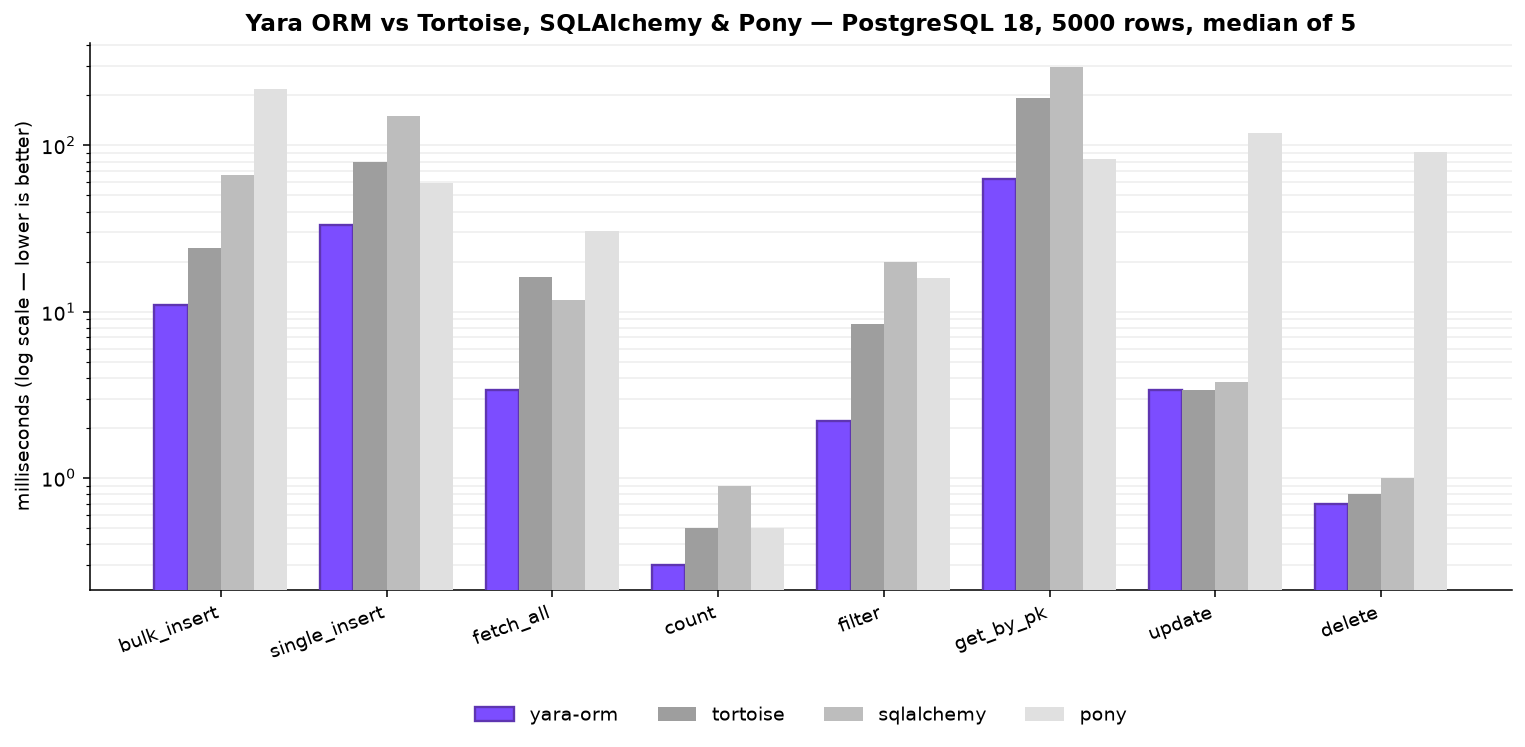
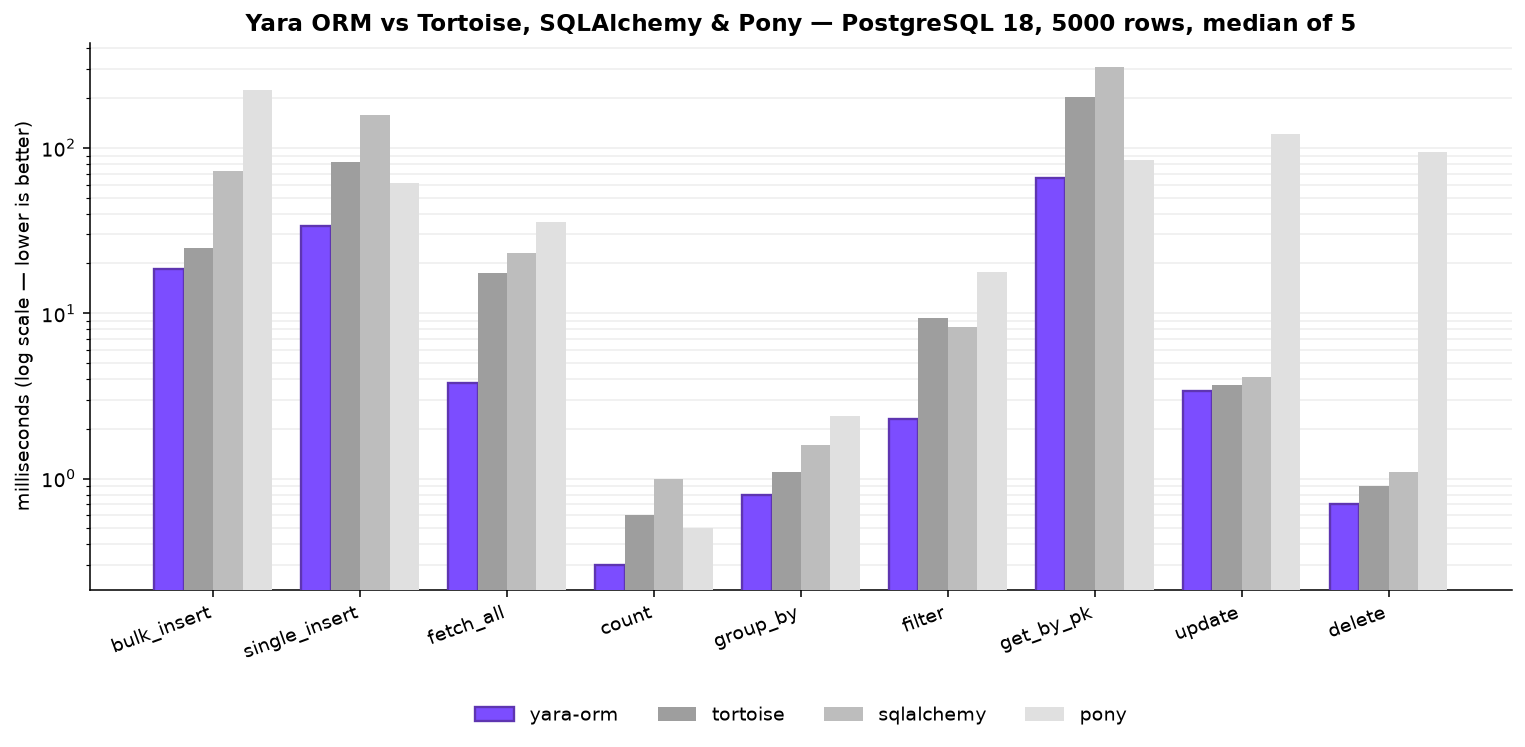
docs: refresh PostgreSQL benchmark results + chart, add group_by op
Re-ran bench.py (N=5000, median of 5) on the rustls release build; updated the
tables in README, benchmarks/README.md and docs/performance.md, added the new
GROUP BY + HAVING aggregate op, and regenerated docs/assets/benchmark-postgres.png.
yara-orm remains fastest on every operation.

diff --git a/benchmarks/plot_benchmarks.py b/benchmarks/plot_benchmarks.py
@@ -29,16 +29,17 @@ OPERATIONS = [
     "single_insert",
     "fetch_all",
     "count",
+    "group_by",
     "filter",
     "get_by_pk",
     "update",
     "delete",
 ]
 TIMES_MS = {
-    "yara-orm": [11.0, 33.4, 3.4, 0.3, 2.2, 62.5, 3.4, 0.7],
-    "tortoise": [24.2, 79.5, 16.1, 0.5, 8.4, 193.6, 3.4, 0.8],
-    "sqlalchemy": [66.6, 151.3, 11.8, 0.9, 19.9, 294.3, 3.8, 1.0],
-    "pony": [218.2, 59.7, 30.4, 0.5, 16.0, 82.5, 119.5, 90.7],
+    "yara-orm": [18.5, 33.7, 3.8, 0.3, 0.8, 2.3, 65.8, 3.4, 0.7],
+    "tortoise": [24.7, 82.7, 17.5, 0.6, 1.1, 9.3, 204.4, 3.7, 0.9],
+    "sqlalchemy": [72.5, 157.7, 23.2, 1.0, 1.6, 8.2, 306.9, 4.1, 1.1],
+    "pony": [223.4, 61.0, 35.7, 0.5, 2.4, 17.8, 84.6, 120.7, 95.1],
 }
 
 # yara-orm in brand deep-purple, competitors in muted greys so the winner pops.

diff --git a/docs/performance.md b/docs/performance.md
@@ -25,25 +25,31 @@ PostgreSQL 18, Apple Silicon, Python 3.12, N=5000, median of 5 (ms, lower is bet
 
 | operation     | yara-orm | tortoise | sqlalchemy |  pony |
 |---------------|---------:|---------:|-----------:|------:|
-| bulk_insert   |     11.5 |     23.1 |       67.5 | 208.4 |
-| single_insert |     32.8 |     80.4 |      153.3 |  59.1 |
-| fetch_all     |      3.5 |     16.0 |       12.2 |  30.4 |
-| count         |      0.4 |      0.5 |        1.2 |   0.5 |
-| filter        |      2.2 |      8.5 |       20.5 |  15.4 |
-| get_by_pk     |     63.2 |    194.4 |      292.8 |  82.7 |
-| update        |      3.3 |      3.4 |        4.1 | 117.8 |
+| bulk_insert   |     18.5 |     24.7 |       72.5 | 223.4 |
+| single_insert |     33.7 |     82.7 |      157.7 |  61.0 |
+| fetch_all     |      3.8 |     17.5 |       23.2 |  35.7 |
+| count         |      0.3 |      0.6 |        1.0 |   0.5 |
+| group_by      |      0.8 |      1.1 |        1.6 |   2.4 |
+| filter        |      2.3 |      9.3 |        8.2 |  17.8 |
+| get_by_pk     |     65.8 |    204.4 |      306.9 |  84.6 |
+| update        |      3.4 |      3.7 |        4.1 | 120.7 |
+| delete        |      0.7 |      0.9 |        1.1 |  95.1 |
+
+`group_by` is a `GROUP BY … COUNT/SUM … HAVING` aggregate query.
 
 **Speedup vs Yara ORM** (competitor time ÷ yara-orm time; >1 means Yara ORM is faster):
 
 | operation     | tortoise | sqlalchemy |  pony |
 |---------------|---------:|-----------:|------:|
-| bulk_insert   |    2.0×  |      5.9×  | 18.1× |
-| single_insert |    2.4×  |      4.7×  |  1.8× |
-| fetch_all     |    4.5×  |      3.5×  |  8.6× |
-| count         |    1.5×  |      3.1×  |  1.3× |
-| filter        |    3.9×  |      9.5×  |  7.2× |
-| get_by_pk     |    3.1×  |      4.6×  |  1.3× |
-| update        |    1.0×  |      1.3×  | 35.7× |
+| bulk_insert   |    1.3×  |      3.9×  | 12.1× |
+| single_insert |    2.5×  |      4.7×  |  1.8× |
+| fetch_all     |    4.6×  |      6.1×  |  9.4× |
+| count         |    1.7×  |      3.0×  |  1.4× |
+| group_by      |    1.4×  |      2.0×  |  2.9× |
+| filter        |    4.1×  |      3.6×  |  7.8× |
+| get_by_pk     |    3.1×  |      4.7×  |  1.3× |
+| update        |    1.1×  |      1.2×  | 35.0× |
+| delete        |    1.2×  |      1.5×  | 130.2× |
 
 Yara ORM is fastest on every operation in this configuration. `get_by_pk` and
 `single_insert` are latency-bound (one sequential round-trip per call) and sit near the raw

diff --git a/benchmarks/README.md b/benchmarks/README.md
@@ -56,27 +56,31 @@ better).
 
 | operation       | yara-orm | tortoise | sqlalchemy |  pony |
 |-----------------|---------:|---------:|-----------:|------:|
-| bulk_insert     |     11.0 |     24.2 |       66.6 | 218.2 |
-| single_insert   |     33.4 |     79.5 |      151.3 |  59.7 |
-| fetch_all       |      3.4 |     16.1 |       11.8 |  30.4 |
-| count           |      0.3 |      0.5 |        0.9 |   0.5 |
-| filter          |      2.2 |      8.4 |       19.9 |  16.0 |
-| get_by_pk       |     62.5 |    193.6 |      294.3 |  82.5 |
-| update          |      3.4 |      3.4 |        3.8 | 119.5 |
-| delete          |      0.7 |      0.8 |        1.0 |  90.7 |
+| bulk_insert     |     18.5 |     24.7 |       72.5 | 223.4 |
+| single_insert   |     33.7 |     82.7 |      157.7 |  61.0 |
+| fetch_all       |      3.8 |     17.5 |       23.2 |  35.7 |
+| count           |      0.3 |      0.6 |        1.0 |   0.5 |
+| group_by        |      0.8 |      1.1 |        1.6 |   2.4 |
+| filter          |      2.3 |      9.3 |        8.2 |  17.8 |
+| get_by_pk       |     65.8 |    204.4 |      306.9 |  84.6 |
+| update          |      3.4 |      3.7 |        4.1 | 120.7 |
+| delete          |      0.7 |      0.9 |        1.1 |  95.1 |
+
+The `group_by` op is a `GROUP BY … COUNT/SUM … HAVING` aggregate over the rows.
 
 Speedup vs `yara-orm` (competitor_time / yara_orm_time; >1 means `yara-orm` faster):
 
 | operation     | tortoise | sqlalchemy |   pony |
 |---------------|---------:|-----------:|-------:|
-| bulk_insert   |    2.1×  |      6.2×  |  18.7× |
+| bulk_insert   |    1.3×  |      3.9×  |  12.1× |
 | single_insert |    2.5×  |      4.7×  |   1.8× |
-| fetch_all     |    4.7×  |      3.5×  |   8.9× |
-| count         |    2.1×  |      3.2×  |   1.7× |
-| filter        |    4.1×  |     10.0×  |   7.9× |
+| fetch_all     |    4.6×  |      6.1×  |   9.4× |
+| count         |    1.7×  |      3.0×  |   1.4× |
+| group_by      |    1.4×  |      2.0×  |   2.9× |
+| filter        |    4.1×  |      3.6×  |   7.8× |
 | get_by_pk     |    3.1×  |      4.7×  |   1.3× |
-| update        |    1.1×  |      1.2×  |  36.5× |
-| delete        |    1.3×  |      1.6×  | 134.0× |
+| update        |    1.1×  |      1.2×  |  35.0× |
+| delete        |    1.2×  |      1.5×  | 130.2× |
 
 `yara-orm` is fastest on every operation in this configuration. `get_by_pk` and
 `single_insert` are latency-bound (one sequential round-trip per call) and sit

diff --git a/README.md b/README.md
@@ -228,14 +228,15 @@ slowdown factor (>1 means Yara ORM is faster). Full methodology in
 
 | operation     | yara-orm | vs Tortoise | vs SQLAlchemy | vs Pony |
 |---------------|---------:|------------:|--------------:|--------:|
-| bulk_insert   | 11.0 ms  | 2.1×        | 6.2×          | 18.7×   |
-| single_insert | 33.4 ms  | 2.5×        | 4.7×          |  1.8×   |
-| fetch_all     |  3.4 ms  | 4.7×        | 3.5×          |  8.9×   |
-| count         |  0.3 ms  | 2.1×        | 3.2×          |  1.7×   |
-| filter        |  2.2 ms  | 4.1×        | 10.0×         |  7.9×   |
-| get_by_pk     | 62.5 ms  | 3.1×        | 4.7×          |  1.3×   |
-| update        |  3.4 ms  | 1.1×        | 1.2×          | 36.5×   |
-| delete        |  0.7 ms  | 1.3×        | 1.6×          | 134.0×  |
+| bulk_insert   | 18.5 ms  | 1.3×        | 3.9×          | 12.1×   |
+| single_insert | 33.7 ms  | 2.5×        | 4.7×          |  1.8×   |
+| fetch_all     |  3.8 ms  | 4.6×        | 6.1×          |  9.4×   |
+| count         |  0.3 ms  | 1.7×        | 3.0×          |  1.4×   |
+| group_by      |  0.8 ms  | 1.4×        | 2.0×          |  2.9×   |
+| filter        |  2.3 ms  | 4.1×        | 3.6×          |  7.8×   |
+| get_by_pk     | 65.8 ms  | 3.1×        | 4.7×          |  1.3×   |
+| update        |  3.4 ms  | 1.1×        | 1.2×          | 35.0×   |
+| delete        |  0.7 ms  | 1.2×        | 1.5×          | 130.2×  |
 
 Speed comes from the Rust hot path, **positional row decoding** (no per-row dict
 or column-name allocation), **compiled-SQL + prepared-statement caching**, and